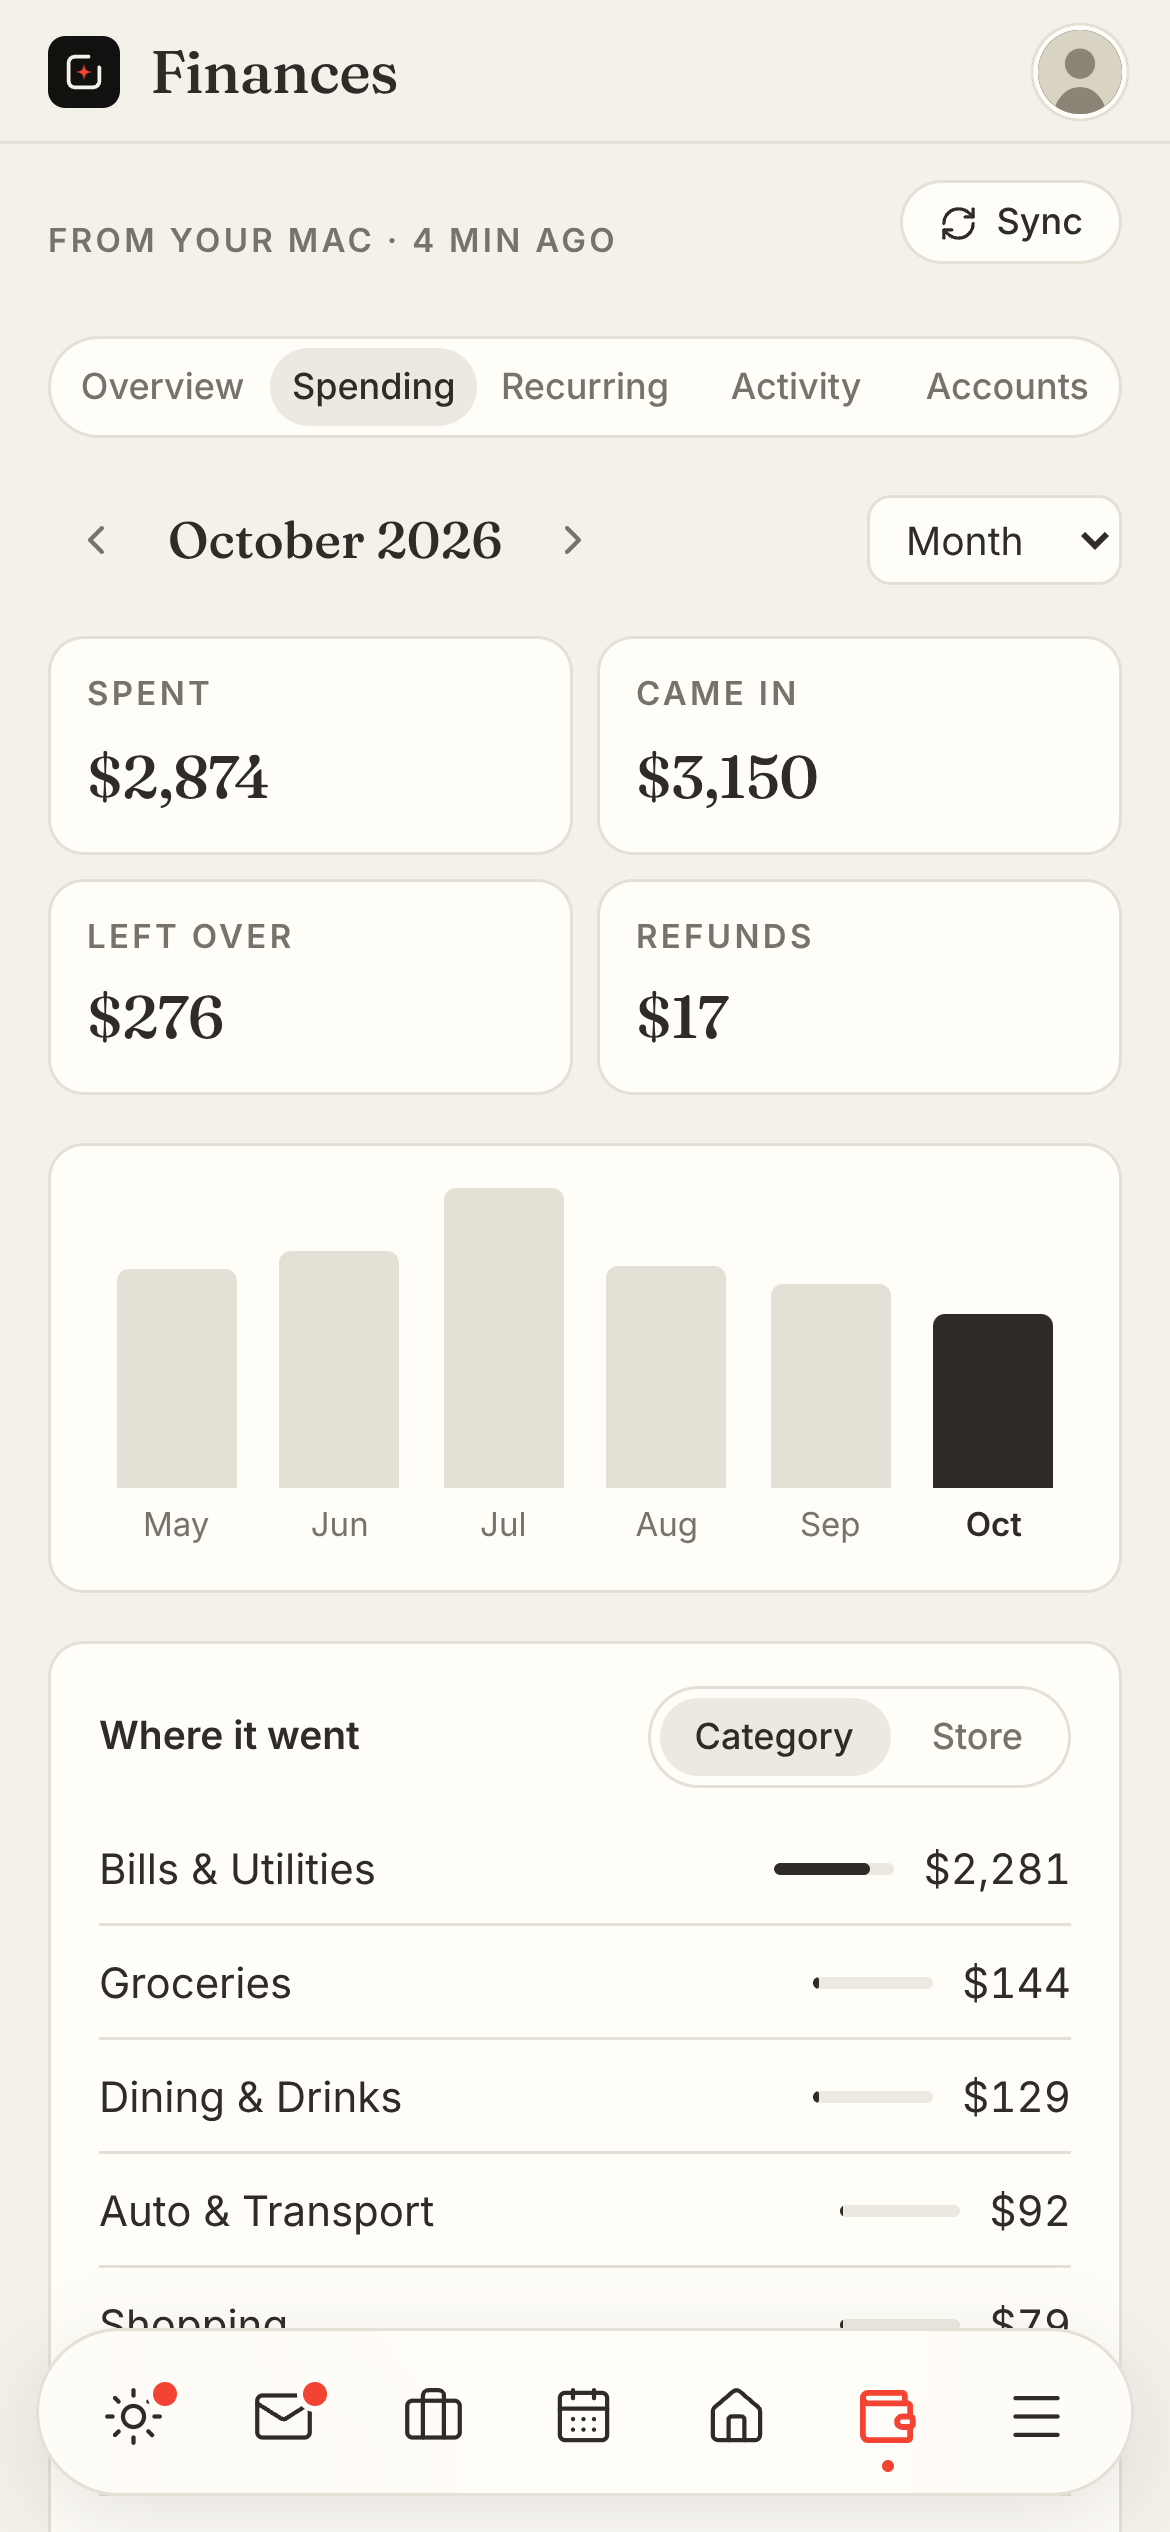
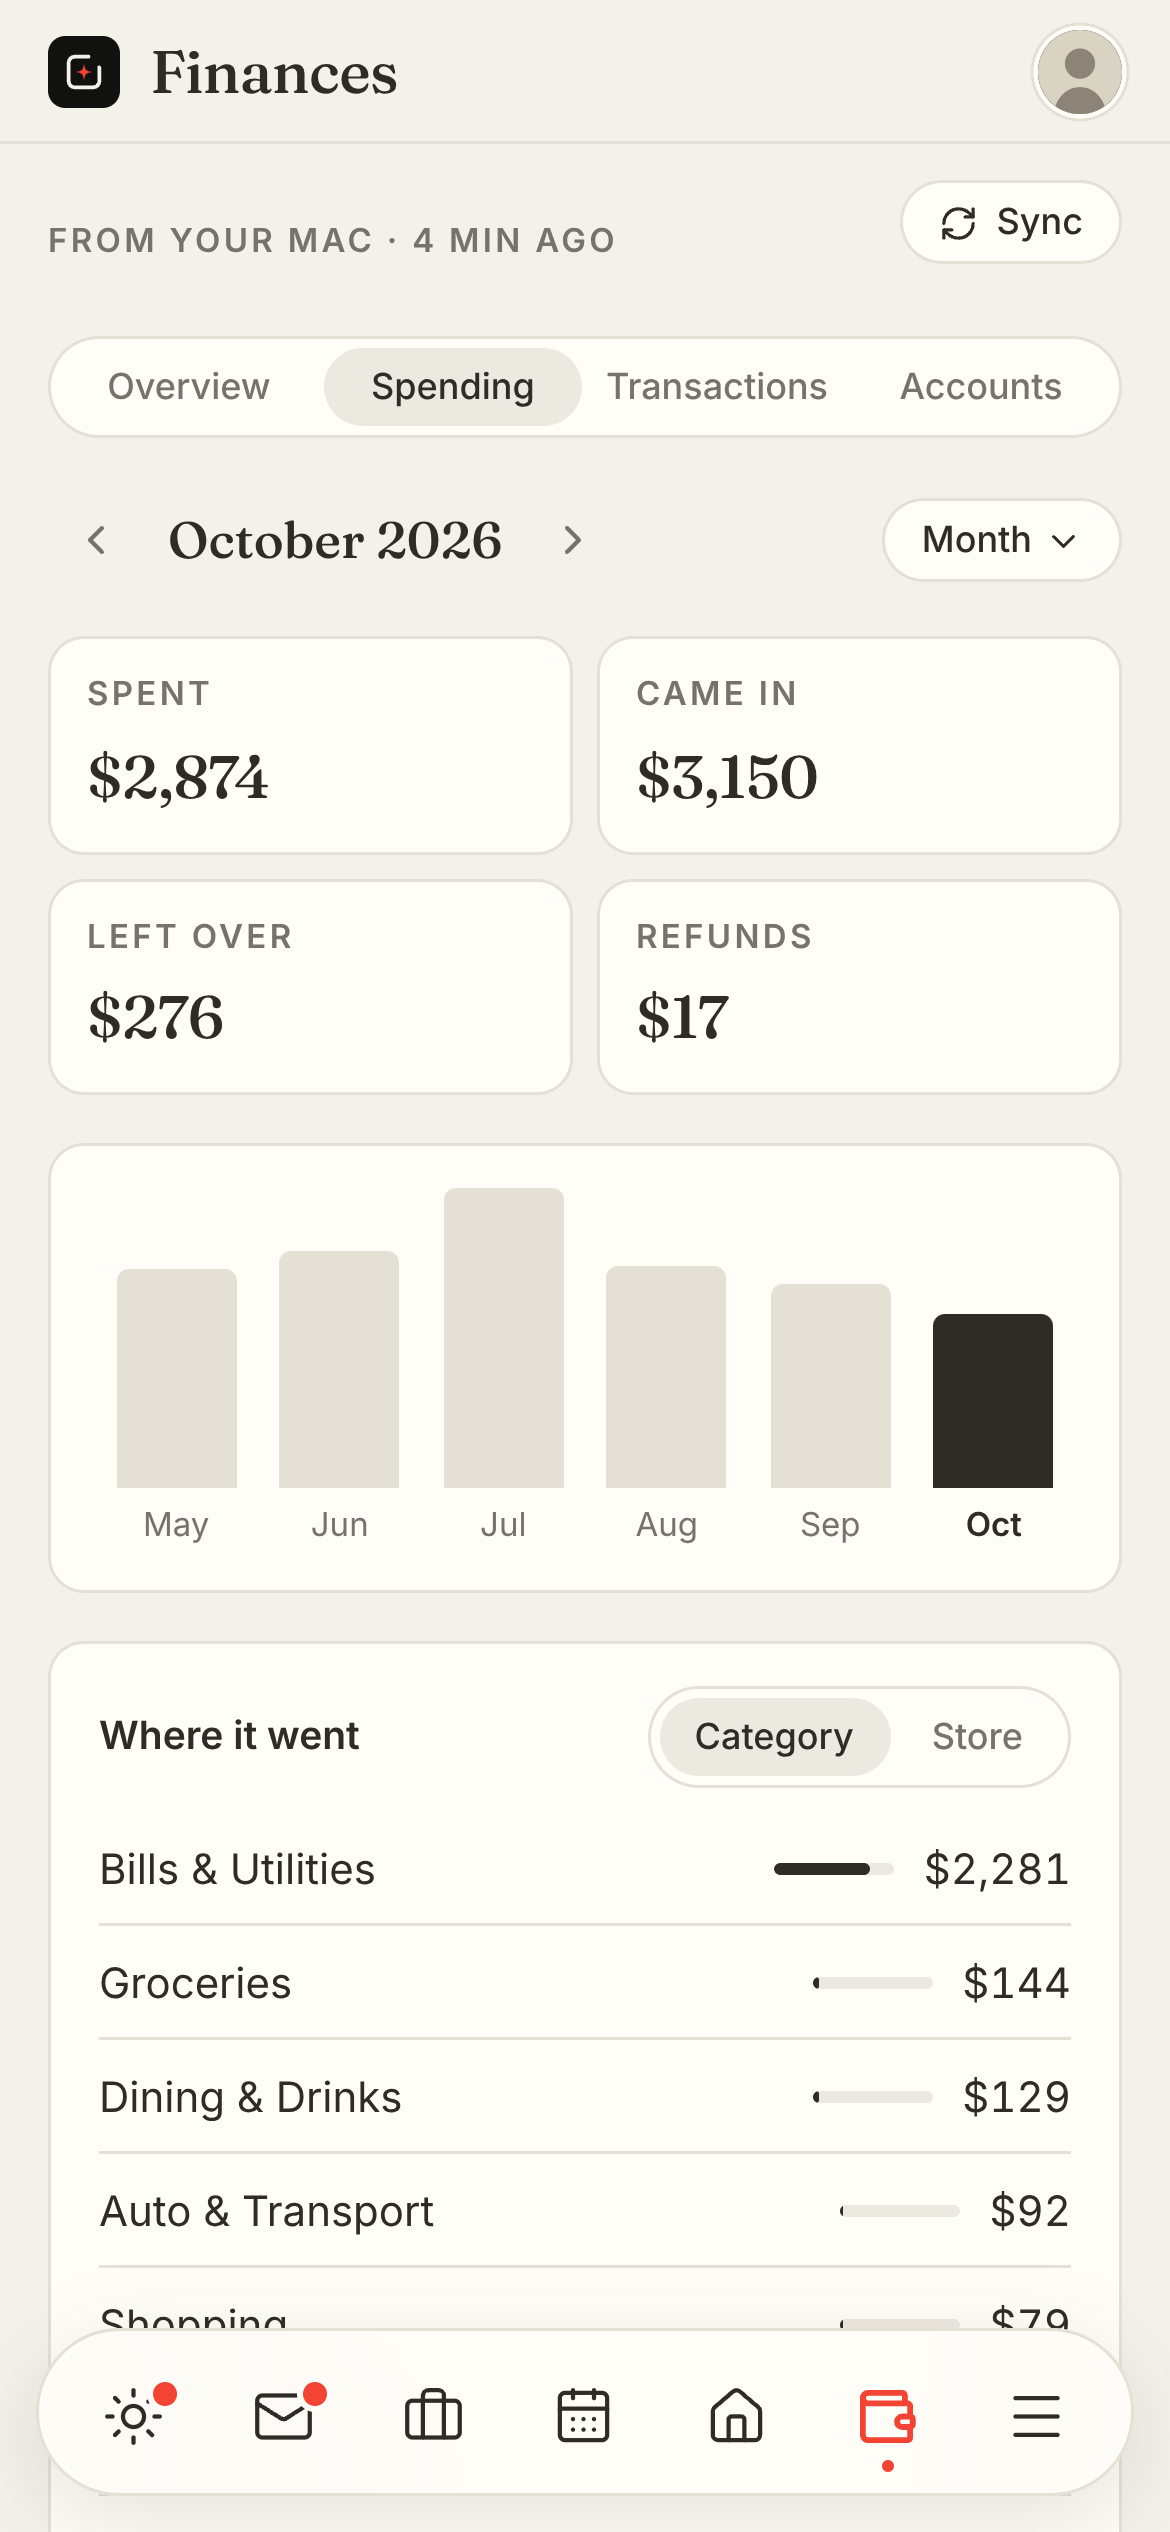
Finances: Recurring moves into Spending, period picker opens a short list
Claude-Session: https://claude.ai/code/session_014Egirv3gvbTzrnHaoEqViP

diff --git a/src/pages/Finances.jsx b/src/pages/Finances.jsx
@@ -1,14 +1,14 @@
-import { useMemo, useState } from 'react'
+import { useEffect, useMemo, useRef, useState } from 'react'
 import { useSearchParams } from 'react-router-dom'
-import { ChevronLeft, ChevronRight, ExternalLink, RefreshCw, Search, Trash2 } from 'lucide-react'
+import { Check, ChevronDown, ChevronLeft, ChevronRight, ExternalLink, RefreshCw, Search, Trash2 } from 'lucide-react'
 import PageHeader from '../components/PageHeader.jsx'
 import { ago } from '../lib.js'
 import { amt, makeKey, usd, useMoney } from '../money.js'
 import { cancelGuide } from '../subscriptions.js'
 
 const TABS = [
-  ['overview', 'Overview'], ['spending', 'Spending'], ['recurring', 'Recurring'],
-  ['transactions', 'Transactions', 'Activity'], ['accounts', 'Accounts'],
+  ['overview', 'Overview'], ['spending', 'Spending'],
+  ['transactions', 'Transactions'], ['accounts', 'Accounts'],
 ]
 const GROUPS = [
   ['checking', 'Checking'], ['card', 'Cards'], ['savings', 'Savings'], ['investments', 'Investments'], ['loan', 'Loans'],
@@ -146,7 +146,7 @@ function Overview({ p, go }) {
         </section>
 
         <section className="tile">
-          <div className="tile-head"><h2>Coming up</h2><button className="mini" onClick={() => go('recurring')}>All bills</button></div>
+          <div className="tile-head"><h2>Coming up</h2><button className="mini" onClick={() => go('spending', 'fin-recurring')}>All bills</button></div>
           {upcoming.length === 0 && <p className="empty">Nothing due in the next 30 days.</p>}
           <ul className="list">
             {upcoming.slice(0, 7).map((r) => (
@@ -171,6 +171,33 @@ function Overview({ p, go }) {
 
 const PERIODS = [['week', 'Week'], ['month', 'Month'], ['quarter', 'Quarter'], ['year', 'Year']]
 
+function PeriodMenu({ value, onPick }) {
+  const [open, setOpen] = useState(false)
+  const ref = useRef(null)
+  useEffect(() => {
+    if (!open) return
+    const close = (e) => { if (!ref.current?.contains(e.target)) setOpen(false) }
+    document.addEventListener('pointerdown', close)
+    return () => document.removeEventListener('pointerdown', close)
+  }, [open])
+  return (
+    <div className="fin-menu" ref={ref}>
+      <button className="btn sm" aria-haspopup="menu" aria-expanded={open} onClick={() => setOpen(!open)}>
+        {PERIODS.find(([k]) => k === value)[1]} <ChevronDown size={13} />
+      </button>
+      {open && (
+        <div className="fin-menu-list" role="menu">
+          {PERIODS.map(([k, label]) => (
+            <button key={k} role="menuitemradio" aria-checked={k === value} onClick={() => { setOpen(false); onPick(k) }}>
+              {label}{k === value && <Check size={14} />}
+            </button>
+          ))}
+        </div>
+      )}
+    </div>
+  )
+}
+
 function Spending({ p, send }) {
   const [period, setPeriod] = useState('month')
   const [offset, setOffset] = useState(0)
@@ -189,9 +216,7 @@ function Spending({ p, send }) {
           <span className="fin-period">{s.title}</span>
           <button className="icon-btn" aria-label="Later" disabled={offset === 0} onClick={() => setOffset(offset - 1)}><ChevronRight size={16} /></button>
         </div>
-        <select className="fin-select" aria-label="Period" value={period} onChange={(e) => { setPeriod(e.target.value); setOffset(0) }}>
-          {PERIODS.map(([k, label]) => <option key={k} value={k}>{label}</option>)}
-        </select>
+        <PeriodMenu value={period} onPick={(k) => { setPeriod(k); setOffset(0) }} />
       </div>
 
       <div className="stats even fin-stats">
@@ -259,6 +284,8 @@ function Spending({ p, send }) {
           )}
         </div>
       </div>
+
+      <Recurring p={p} send={send} />
     </>
   )
 }
@@ -324,16 +351,14 @@ function Recurring({ p, send }) {
   }
 
   return (
-    <>
-      <div className="stats even fin-stats">
-        <div className="tile stat lead"><span className="eyebrow">Bills a month</span><span className="big">{usd(perMonth(bills))}</span></div>
-        <div className="tile stat"><span className="eyebrow">Income a month</span><span className="big">{usd(perMonth(income))}</span></div>
-        <div className="tile stat"><span className="eyebrow">Next payday</span><span className="big">{forecast.next_payday ? day(forecast.next_payday) : 'None'}</span></div>
-        <div className="tile stat"><span className="eyebrow">Safe to spend</span><span className="big">{usd(forecast.safe_to_spend)}</span><span className="meta">Before next payday</span></div>
+    <div id="fin-recurring" className="fin-recurring">
+      <div className="tile-head">
+        <h2>Recurring</h2>
+        <span className="meta">{forecast.next_payday ? `${usd(forecast.safe_to_spend)} safe to spend before payday ${day(forecast.next_payday)}` : `${usd(forecast.safe_to_spend)} safe to spend`}</span>
       </div>
       <div className="grid two">
         <section className="tile">
-          <div className="tile-head"><h2>Bills</h2><span className="meta">{bills.length}</span></div>
+          <div className="tile-head"><h2>Bills</h2><span className="meta">{usd(perMonth(bills))} a month</span></div>
           <ul className="list">{bills.map(row)}</ul>
           {ignored.length > 0 && <button className="mini more" onClick={() => setShowIgnored(!showIgnored)}>{showIgnored ? 'Done' : `${ignored.length} hidden`}</button>}
           {showIgnored && (
@@ -348,11 +373,11 @@ function Recurring({ p, send }) {
           )}
         </section>
         <section className="tile">
-          <div className="tile-head"><h2>Income</h2><span className="meta">{income.length}</span></div>
+          <div className="tile-head"><h2>Income</h2><span className="meta">{usd(perMonth(income))} a month</span></div>
           <ul className="list">{income.map(row)}</ul>
         </section>
       </div>
-    </>
+    </div>
   )
 }
 
@@ -550,8 +575,13 @@ function MacLink({ publishedAt, first }) {
 export default function Finances() {
   const { snap, pending, error, clearError, send } = useMoney()
   const [params, setParams] = useSearchParams()
-  const tab = TABS.some(([k]) => k === params.get('tab')) ? params.get('tab') : 'overview'
-  const go = (k) => { setParams(k === 'overview' ? {} : { tab: k }, { replace: true }); window.scrollTo(0, 0) }
+  const asked = params.get('tab') === 'recurring' ? 'spending' : params.get('tab')
+  const tab = TABS.some(([k]) => k === asked) ? asked : 'overview'
+  const go = (k, anchor) => {
+    setParams(k === 'overview' ? {} : { tab: k }, { replace: true })
+    if (anchor) setTimeout(() => document.getElementById(anchor)?.scrollIntoView({ behavior: 'smooth' }), 50)
+    else window.scrollTo(0, 0)
+  }
 
   if (snap === undefined) return <div className="page"><PageHeader title="Finances" /></div>
   if (snap === null) {
@@ -588,7 +618,6 @@ export default function Finances() {
 
       {tab === 'overview' && <Overview p={p} go={go} />}
       {tab === 'spending' && <Spending p={p} send={send} />}
-      {tab === 'recurring' && <Recurring p={p} send={send} />}
       {tab === 'transactions' && <Transactions p={p} send={send} />}
       {tab === 'accounts' && <Accounts p={p} send={send} publishedAt={snap.published_at} />}
     </div>

diff --git a/src/styles.css b/src/styles.css
@@ -772,7 +772,13 @@ button.set-row:active, button.set-row:hover { background: var(--hover); }
 .fin-short { display: none; }
 .fin-periodbar { flex-wrap: nowrap; }
 .fin-periodbar .fin-period { min-width: 0; }
-.fin-periodbar .fin-select { flex: none; width: auto; }
+.fin-menu { position: relative; flex: none; }
+.fin-menu .btn { gap: 4px; }
+.fin-menu-list { position: absolute; right: 0; top: calc(100% + 6px); z-index: 20; min-width: 150px; padding: 4px; display: flex; flex-direction: column; background: var(--surface); border: 1px solid var(--line); border-radius: 12px; }
+.fin-menu-list button { display: flex; align-items: center; justify-content: space-between; height: 34px; padding: 0 10px; border: 0; border-radius: 8px; background: none; font: inherit; font-size: 14px; color: var(--fg); text-align: left; cursor: pointer; }
+.fin-menu-list button:hover { background: var(--hover); }
+.fin-recurring { display: flex; flex-direction: column; gap: 10px; margin-top: 12px; scroll-margin-top: 80px; }
+.fin-recurring > .tile-head { padding: 0 4px; flex-wrap: wrap; gap: 4px 12px; }
 @media (max-width: 640px) {
   .fin-tabs { align-self: stretch; }
   .fin-tabs button { flex: 1; padding: 0 6px; }
